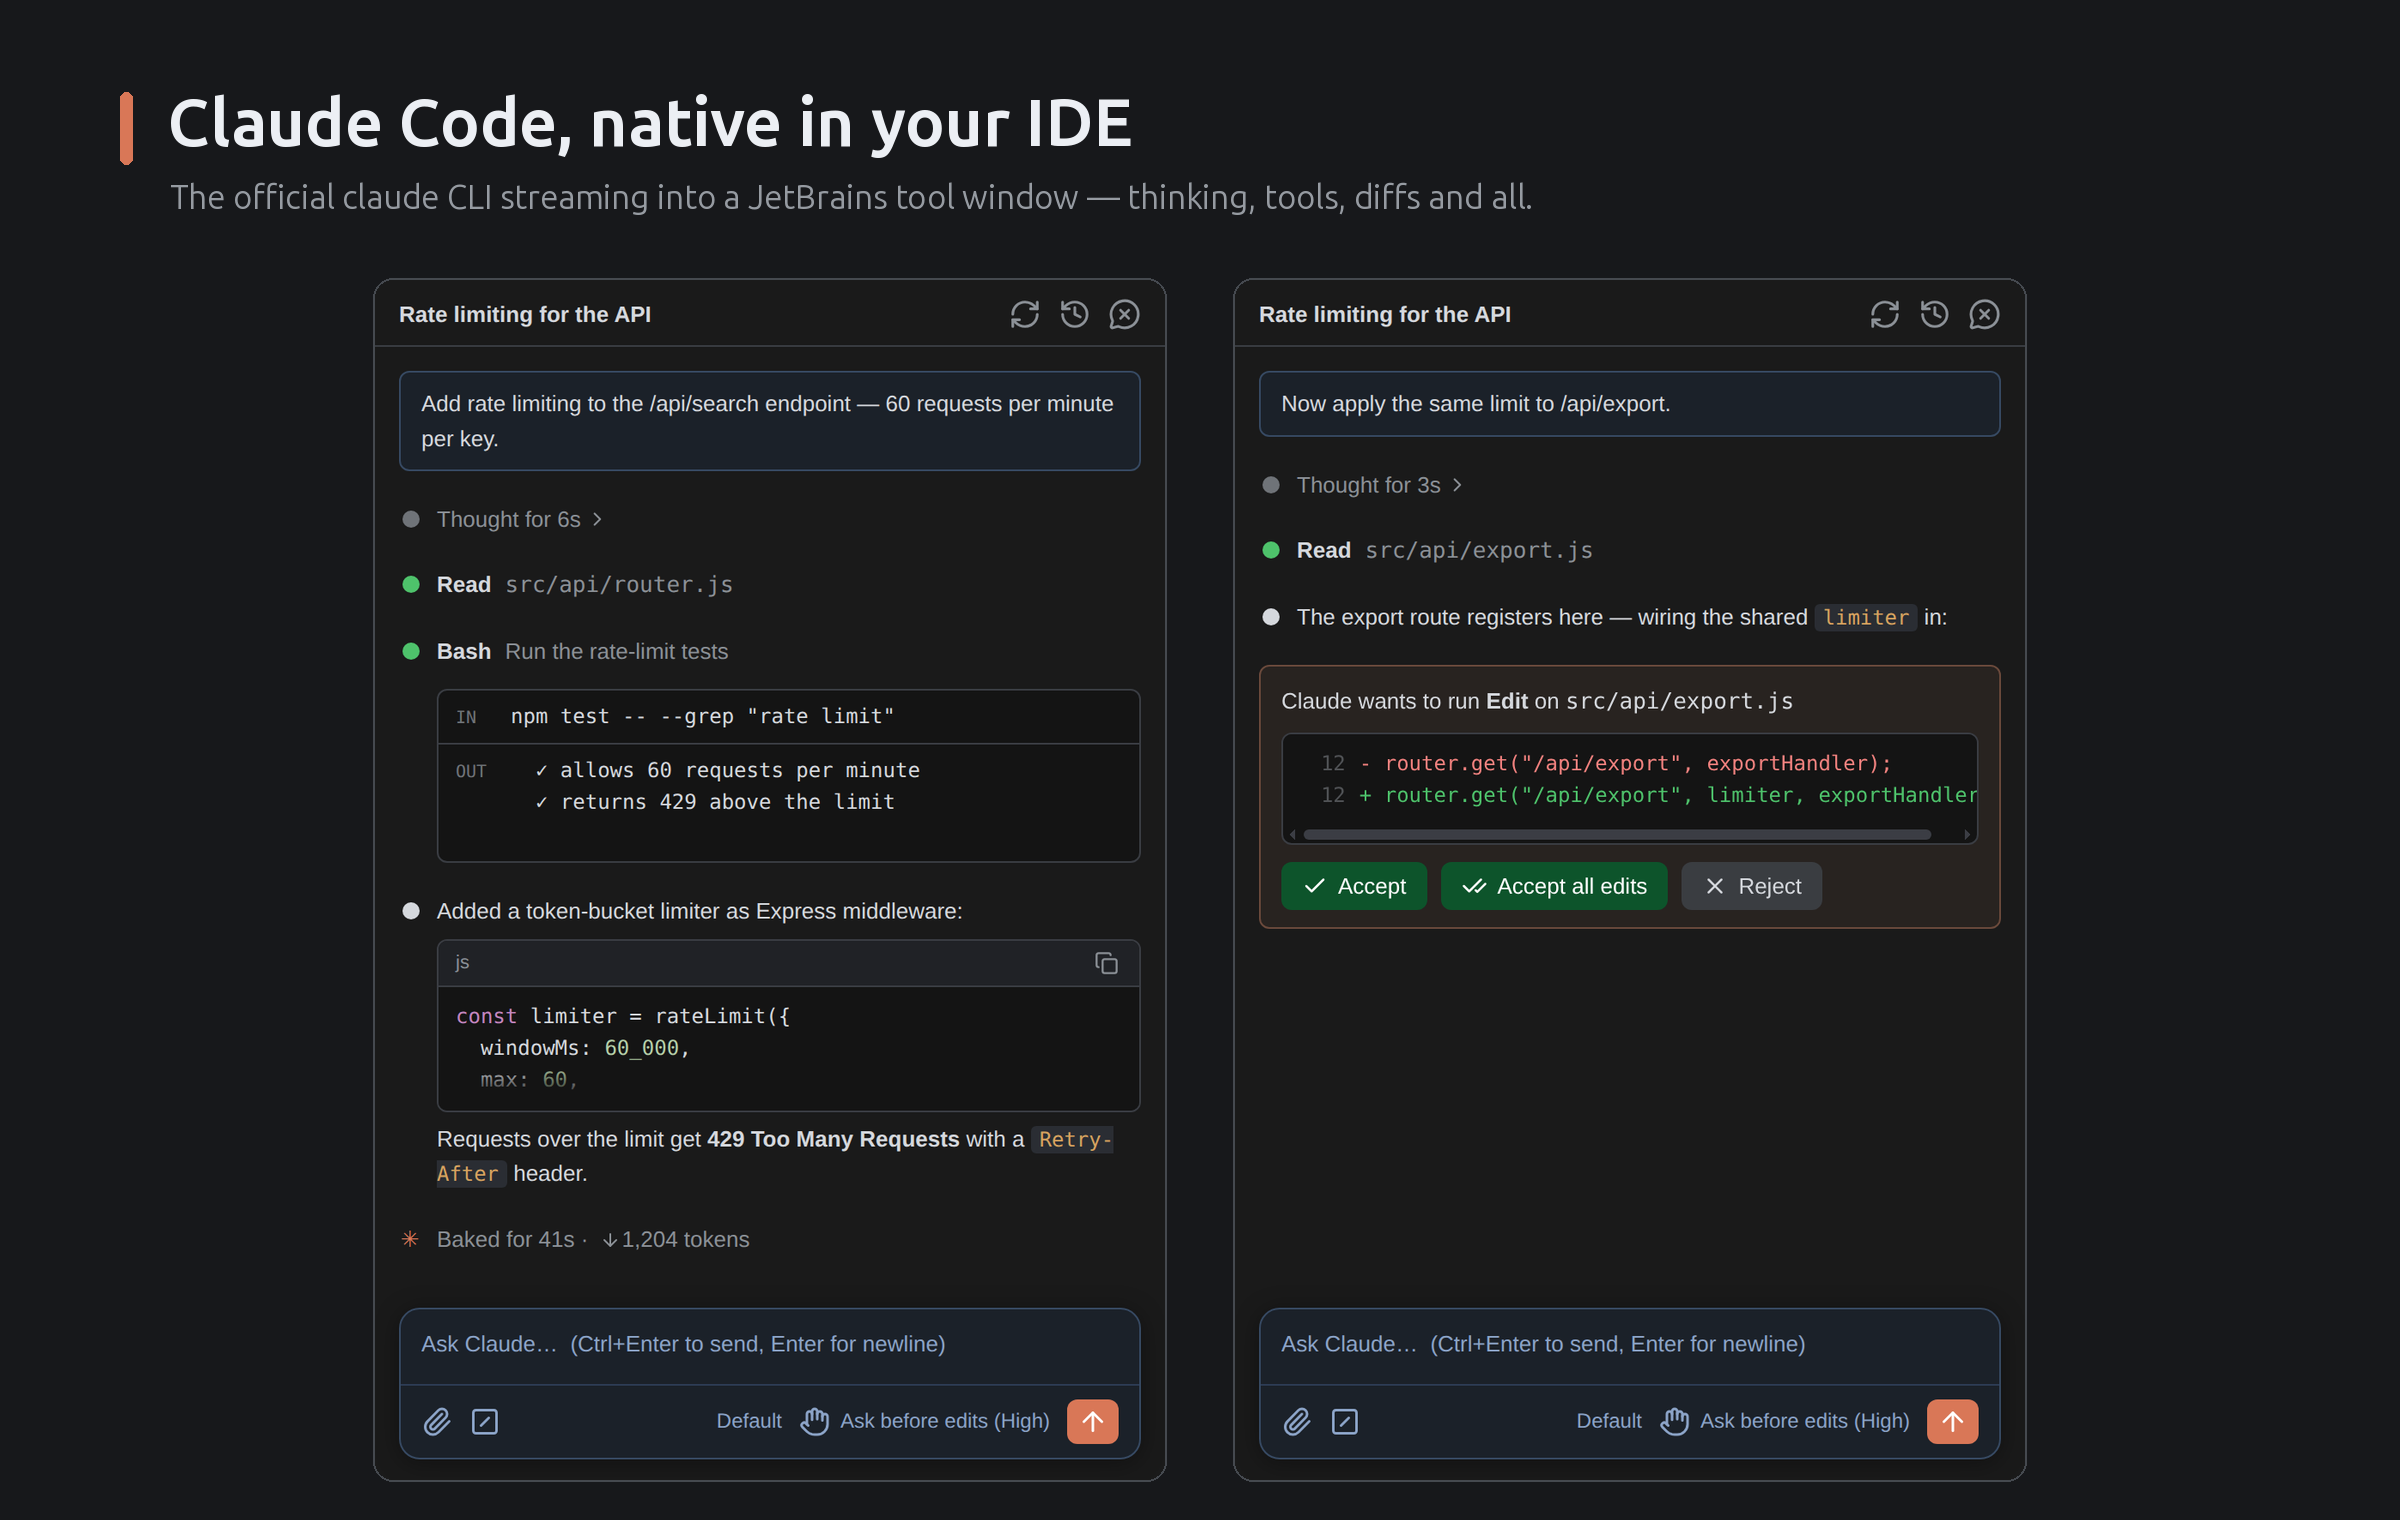
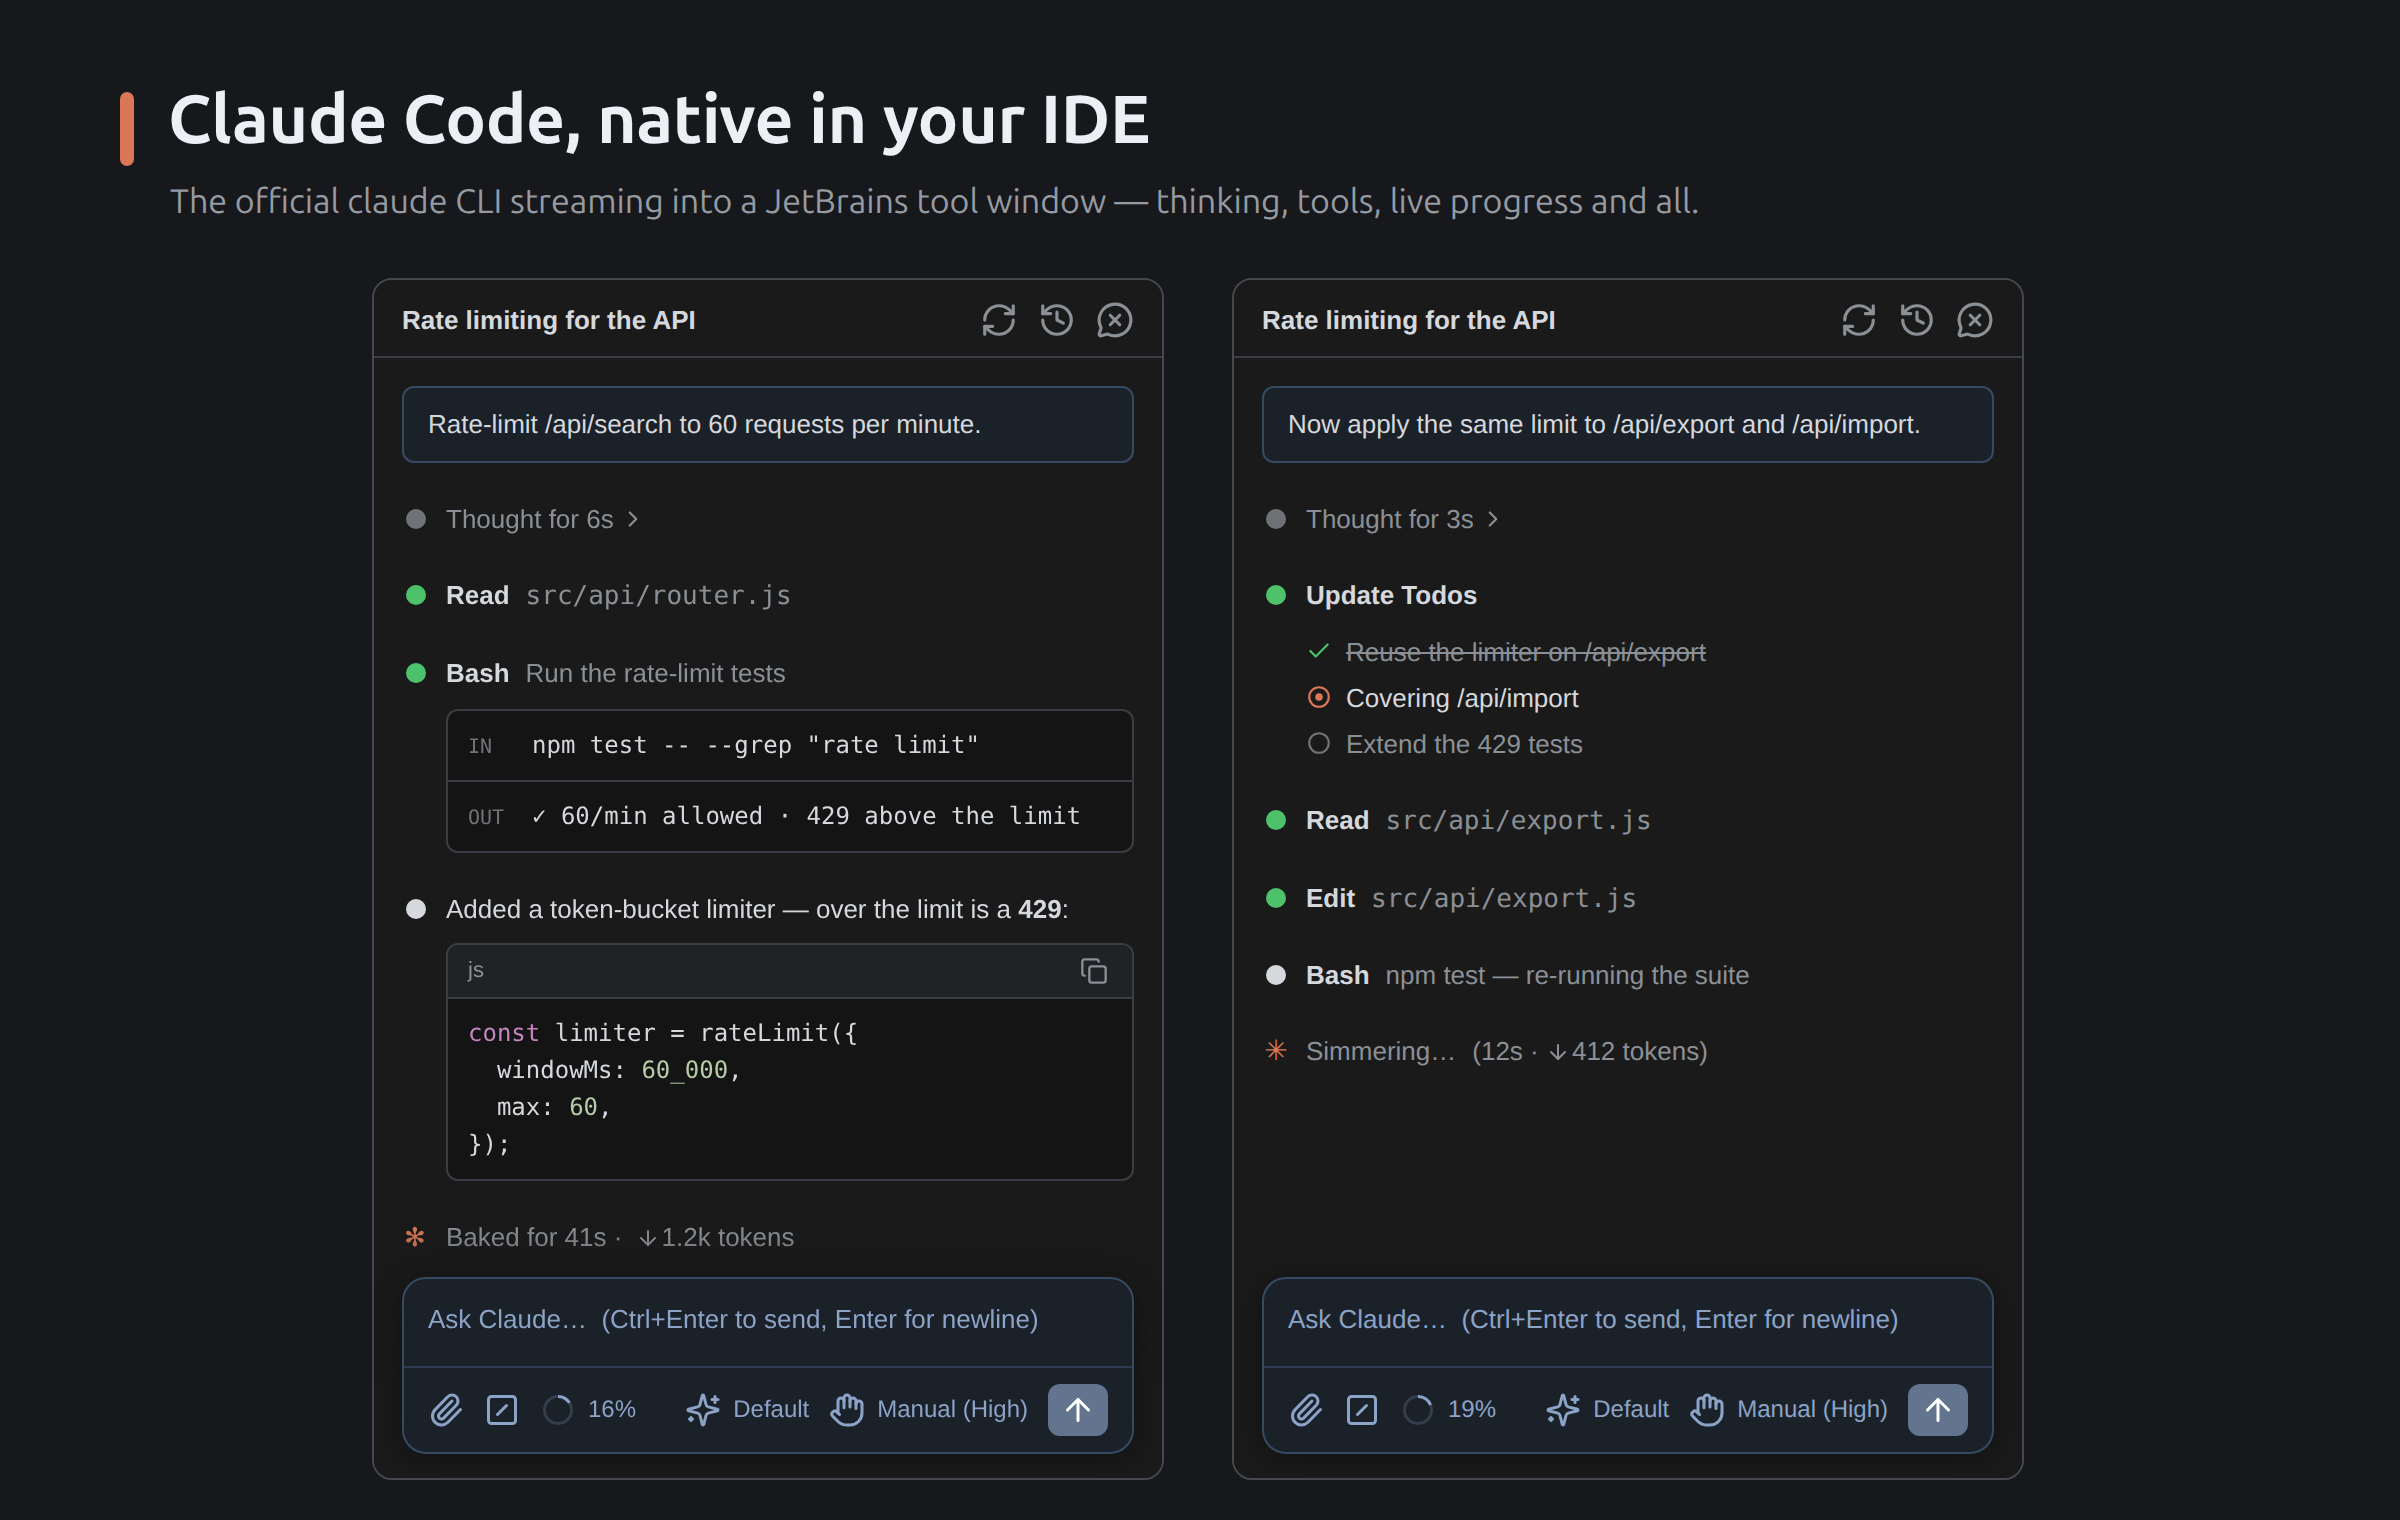
Two fields, one dress — and the storefront reshot from the real renderer
The plan-card feedback input now wears the ask card's "Other" style: both
read background var(--warn-field) (#201c1a, user-picked over three mockup
rounds) inside the warn-border frame, so the panel's two type-your-answer
surfaces are one control. A .plan-sep hairline (the composer's #inputbar
idiom; its own div because inputs cannot carry pseudo-elements) marks where
the plan ends and the decision surface begins — and done() removes it with
the input, because a decided card must match the replayed one.

Fixture 48 pins it (+5: separator present, positioned, actually drawn per
computed style, field at the token's exact rgb, gone after decision).
Live harness 308/308 on the relaunched sandbox, build verified by content.

design/marketplace: five fresh 2400x1520 frames replace the 2026-07-31
trio, composed from the real renderer (spliced chat.html, headless — the
OSR surface tiles captures under an emulated viewport) and showing what
shipped since: in-flight dots, todos, plan feedback + split Approve, the
ask form, slash-menu source badges, background agents, context ring.

diff --git a/plugin/src/main/resources/webview/chat.css b/plugin/src/main/resources/webview/chat.css
@@ -25,6 +25,8 @@
   --hover: #2f3237;       /* list rows / icon buttons on hover */
   --warn-border: #6b4a3c; /* shared "needs user feedback" frame: permission / plan / question cards */
   --warn-bg: #282320;
+  --warn-field: #201c1a; /* text fields on warn cards (ask "Other", plan feedback) — a sunken
+                            step below --warn-bg so the field reads as a well */
   --user-bg: #1b2129;     /* user input surfaces: message box + composer */
   --user-border: #374a63;
   --user-raised: #242e3c; /* capsules on user surfaces (attachment chips) */
@@ -656,12 +658,16 @@ blockquote > *:last-child { margin-bottom: 0; }
 /* Plan-card feedback line: one row of "why", riding whichever button answers the card (deny →
    the message; approve → steered in right after the allow). Sits between the plan body and the
    buttons and leaves with them once the card is decided. Panel-toned, not user-blue: it belongs
-   to the card's decision surface, and the composer keeps its own colours. */
-.plan-fb { display: block; width: 100%; box-sizing: border-box; margin-top: 10px; padding: 4px 10px;
-  background: var(--panel); color: var(--fg); border: 1px solid var(--border);
-  border-radius: var(--radius); font: inherit; outline: none; }
-.plan-fb::placeholder { color: var(--muted); }
-.plan-fb:focus { border-color: var(--border-strong); }
+   to the card's decision surface, and the composer keeps its own colours. .plan-sep marks where
+   the plan ends and the decision surface begins — full-bleed to the card's padding edges, the
+   composer's #inputbar idiom (an input cannot carry a pseudo-element, so it is its own div).
+   The field itself wears the ask card's "Other" input dress (--warn-field well, warn-toned
+   frame) — the panel's two type-your-answer-on-a-card surfaces must read as one control. */
+.plan-sep { margin: 10px -12px 0; border-top: 1px solid var(--border); }
+.plan-fb { display: block; width: 100%; margin-top: 10px; padding: 7px 10px;
+  background: var(--warn-field); color: var(--fg); border: 1px solid var(--warn-border);
+  border-radius: var(--radius); font: inherit; font-size: 13px; outline: none; }
+.plan-fb::placeholder { color: var(--dot); }
 .card-menu .pi-title { white-space: nowrap; overflow: hidden; text-overflow: ellipsis; }
 .diff { background: var(--code-bg); border: 1px solid var(--border); border-radius: var(--radius); padding: 8px 10px;
   overflow-x: auto; font-family: ui-monospace, Consolas, monospace; font-size: 12px; }
@@ -703,7 +709,7 @@ blockquote > *:last-child { margin-bottom: 0; }
 .ask-ind svg { width: 16px; height: 16px; display: block; }
 /* 31px left: input text (31 + 1px border + 10px padding) lands on the option-label edge (42px) */
 .ask-other { padding: 2px 8px 6px 31px; }
-.ask-other input { width: 100%; background: transparent; border: 1px solid var(--warn-border); border-radius: var(--radius); padding: 7px 10px;
+.ask-other input { width: 100%; background: var(--warn-field); border: 1px solid var(--warn-border); border-radius: var(--radius); padding: 7px 10px;
   color: var(--fg); font: inherit; font-size: 13px; outline: none; }
 .ask-other input::placeholder { color: var(--dot); }
 /* replayed (historical) card: answers are a record, not a control.

diff --git a/design/mockup.html b/design/mockup.html
@@ -392,6 +392,7 @@ total 196K
         <!-- feedback rides whichever button answers: deny → the message field, approve → steered
              in right after the allow. The Yes variants fold behind the Approve caret (click it):
              auto-edit rides the CLI's setMode suggestion, auto mode takes the bridge round-trip. -->
+        <div class="plan-sep"></div>
         <input class="plan-fb" placeholder="Tell Claude what to change">
         <div class="card-b"><span class="split"><button class="ok"><svg xmlns="http://www.w3.org/2000/svg" viewBox="0 0 24 24" fill="none" stroke="currentColor" stroke-width="2" stroke-linecap="round" stroke-linejoin="round"><path d="M20 6 9 17l-5-5"/></svg>Approve &amp; implement</button><button class="ok more" aria-haspopup="true" title="More ways to approve"><svg class="chev" xmlns="http://www.w3.org/2000/svg" viewBox="0 0 24 24" fill="none" stroke="currentColor" stroke-width="2" stroke-linecap="round" stroke-linejoin="round"><path d="m9 18 6-6-6-6"/></svg></button><div class="popup card-menu"><div class="popup-item" data-act="acceptEdits" title="Approve, and auto-approve every edit for the rest of this session"><div class="pi-ic"><svg xmlns="http://www.w3.org/2000/svg" viewBox="0 0 24 24" fill="none" stroke="currentColor" stroke-width="2" stroke-linecap="round" stroke-linejoin="round"><path d="M18 6 7 17l-5-5"/><path d="m22 10-7.5 7.5L13 16"/></svg></div><div class="pi-body"><div class="pi-title">Approve, auto-edit</div></div></div><div class="popup-item" data-act="auto" title="Approve, and let Auto mode pass safe actions, pausing for anything risky"><div class="pi-ic"><svg xmlns="http://www.w3.org/2000/svg" viewBox="0 0 24 24" fill="none" stroke="currentColor" stroke-width="2" stroke-linecap="round" stroke-linejoin="round"><path d="M18 6 7 17l-5-5"/><path d="m22 10-7.5 7.5L13 16"/></svg></div><div class="pi-body"><div class="pi-title">Approve, auto mode</div></div></div></div></span><button class="no"><svg xmlns="http://www.w3.org/2000/svg" viewBox="0 0 24 24" fill="none" stroke="currentColor" stroke-width="2" stroke-linecap="round" stroke-linejoin="round"><path d="M10.029 4.285A2 2 0 0 0 7 6v12a2 2 0 0 0 3.029 1.715l9.997-5.998a2 2 0 0 0 .003-3.432z"/><path d="M3 4v16"/></svg>Keep planning</button></div>
       </div>

diff --git a/plugin/src/main/resources/webview/chat.html b/plugin/src/main/resources/webview/chat.html
@@ -4086,6 +4086,7 @@
       // button used to sit between the primaries). bypassPermissions is not offered — the CLI
       // refuses to be raised into it at runtime. No keyboard shortcuts (user, 2026-08-16).
       card.innerHTML = planCardHtml(inp.plan || '') +
+        '<div class="plan-sep"></div>' +
         '<input class="plan-fb" placeholder="Tell Claude what to change">' +
         '<div class="card-b"><span class="split">' +
           '<button class="ok">' + SVG_CHECK + 'Approve &amp; implement</button>' +
@@ -4120,6 +4121,10 @@
       const fbEl = card.querySelector('.plan-fb');
       const fb = fbEl ? fbEl.value.trim() : '';
       if (fbEl) fbEl.remove();
+      // The separator marks the live decision surface — a decided card has none (replayCard
+      // draws plan + footer only, and the two paths must not disagree).
+      const sepEl = card.querySelector('.plan-sep');
+      if (sepEl) sepEl.remove();
       card.querySelector('.card-b').innerHTML = allow
         ? '<span class="ok-t">✓ ' + (isPlan ? 'Approved' : 'Accepted') + (viaEditor ? ' in the editor' : '') +
             (fb ? fbQuote(fb) : '') +
